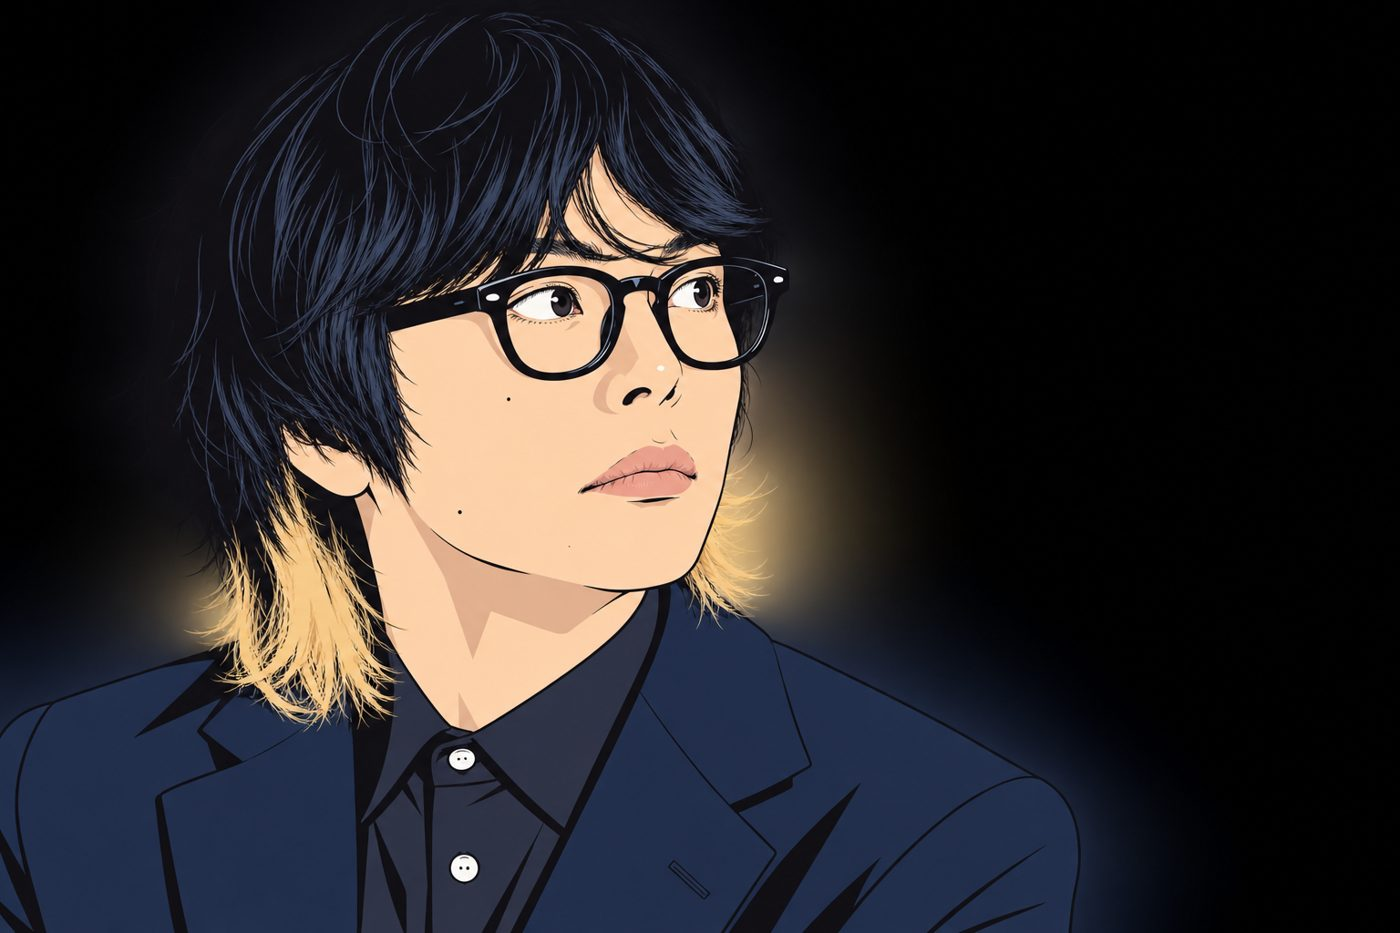
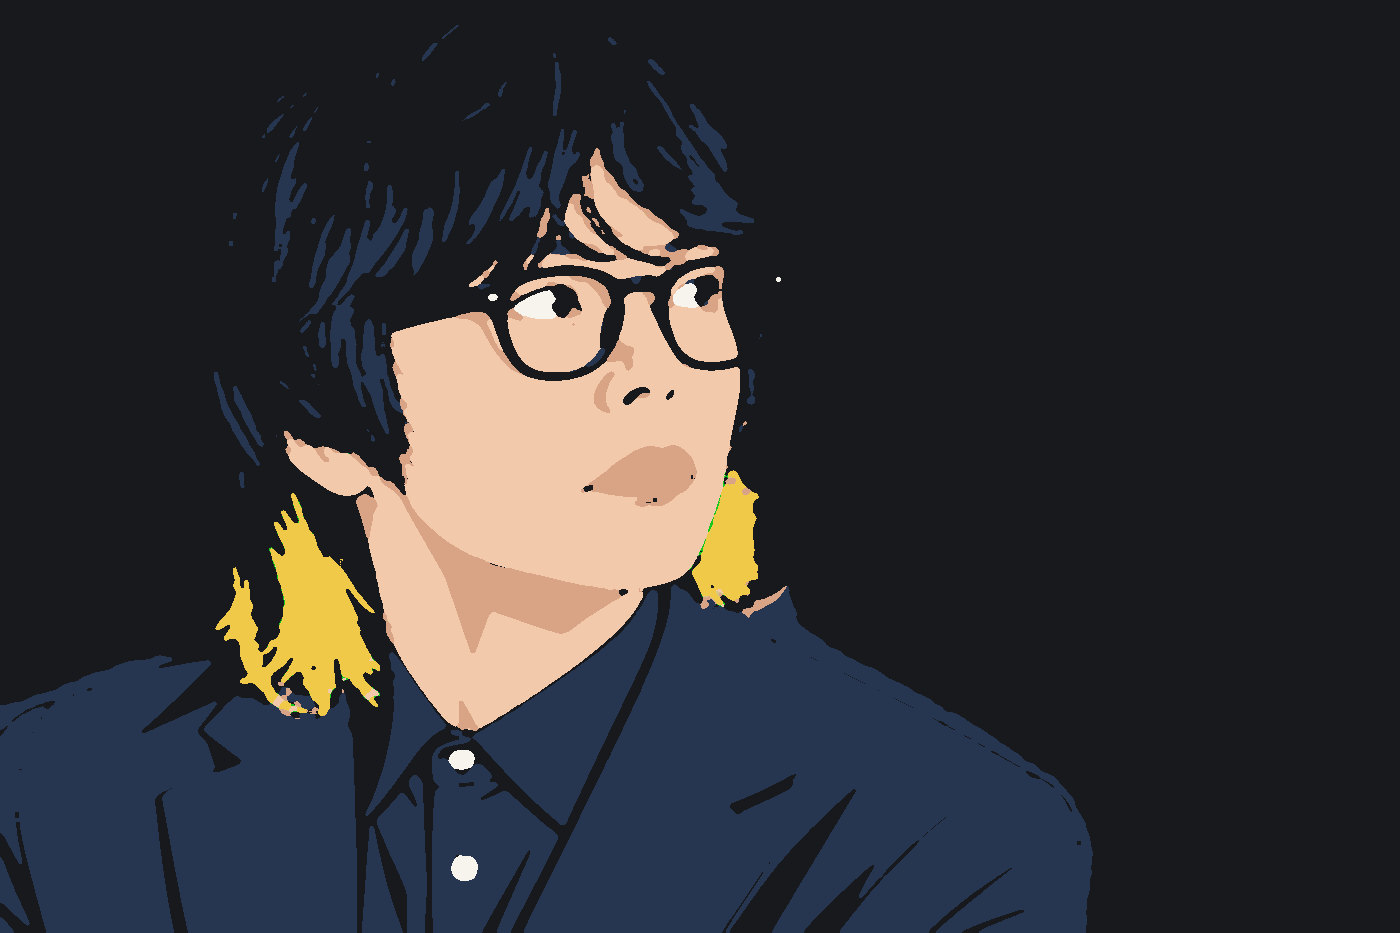
表紙イラストを指定パレットの色面に加工
Claude-Session: https://claude.ai/code/session_01CQW6pZ5TRe3rASLNUBCQkM

diff --git a/tools/treat.py b/tools/treat.py
@@ -1,0 +1,34 @@
+"""KYOTO NOTES の画像加工：指定パレットへの減色＋色面の整理（グラデーション除去）。
+使い方: python3 treat.py 入力 出力.jpg [幅]"""
+import sys
+from PIL import Image, ImageFilter
+import numpy as np
+PAL = {  # 指示書のトークン＋影用に1段だけ派生色
+ 'ink':(0x18,0x19,0x1D),'navy':(0x27,0x36,0x50),'paper':(0xF7,0xF4,0xED),
+ 'peach':(0xF3,0xC9,0xAB),'peach_shade':(0xD9,0xA4,0x86),'yellow':(0xF0,0xC9,0x48),
+}
+def to_lab(a):
+    a=a/255.0; a=np.where(a>0.04045,((a+0.055)/1.055)**2.4,a/12.92)
+    M=np.array([[0.4124,0.3576,0.1805],[0.2126,0.7152,0.0722],[0.0193,0.1192,0.9505]])
+    xyz=a@M.T/np.array([0.9505,1.0,1.089])
+    f=np.where(xyz>0.008856,np.cbrt(xyz),7.787*xyz+16/116)
+    return np.stack([116*f[...,1]-16,500*(f[...,0]-f[...,1]),200*(f[...,1]-f[...,2])],-1)
+def treat(src,dst,width=1400):
+    im=Image.open(src).convert('RGB'); im.thumbnail((width,width))
+    im=im.filter(ImageFilter.MedianFilter(5))            # 細かい毛束・ノイズを色面へ
+    a=np.asarray(im).astype(float)
+    names=list(PAL); P=np.array([PAL[n] for n in names],float)
+    d=((to_lab(a)[...,None,:]-to_lab(P)[None,None])**2).sum(-1)
+    idx=d.argmin(-1)
+    # 背景のにじみ（暖色の暗い光）を消し、明るい毛先だけを黄色の色面にする
+    r,g,b=[a[...,i]/255 for i in range(3)]
+    mx=np.max(a,-1)/255; mn=np.min(a,-1)/255; sat=np.where(mx>0,(mx-mn)/np.maximum(mx,1e-6),0)
+    hue=np.degrees(np.arctan2(np.sqrt(3)*(g-b),2*r-g-b))%360
+    warm=(hue>=28)&(hue<=55)&(sat>=0.30)
+    idx=np.where(warm&(mx<0.76),names.index('ink'),idx)
+    idx=np.where(warm&(mx>=0.76)&(sat>=0.40),names.index('yellow'),idx)
+    out=Image.fromarray(P[idx].astype('uint8'))
+    out=out.filter(ImageFilter.ModeFilter(7))             # 境界の粒を消して面を整える
+    out.save(dst,quality=86,optimize=True,progressive=True,subsampling=0)
+if __name__=='__main__':
+    treat(sys.argv[1],sys.argv[2],int(sys.argv[3]) if len(sys.argv)>3 else 1400)
